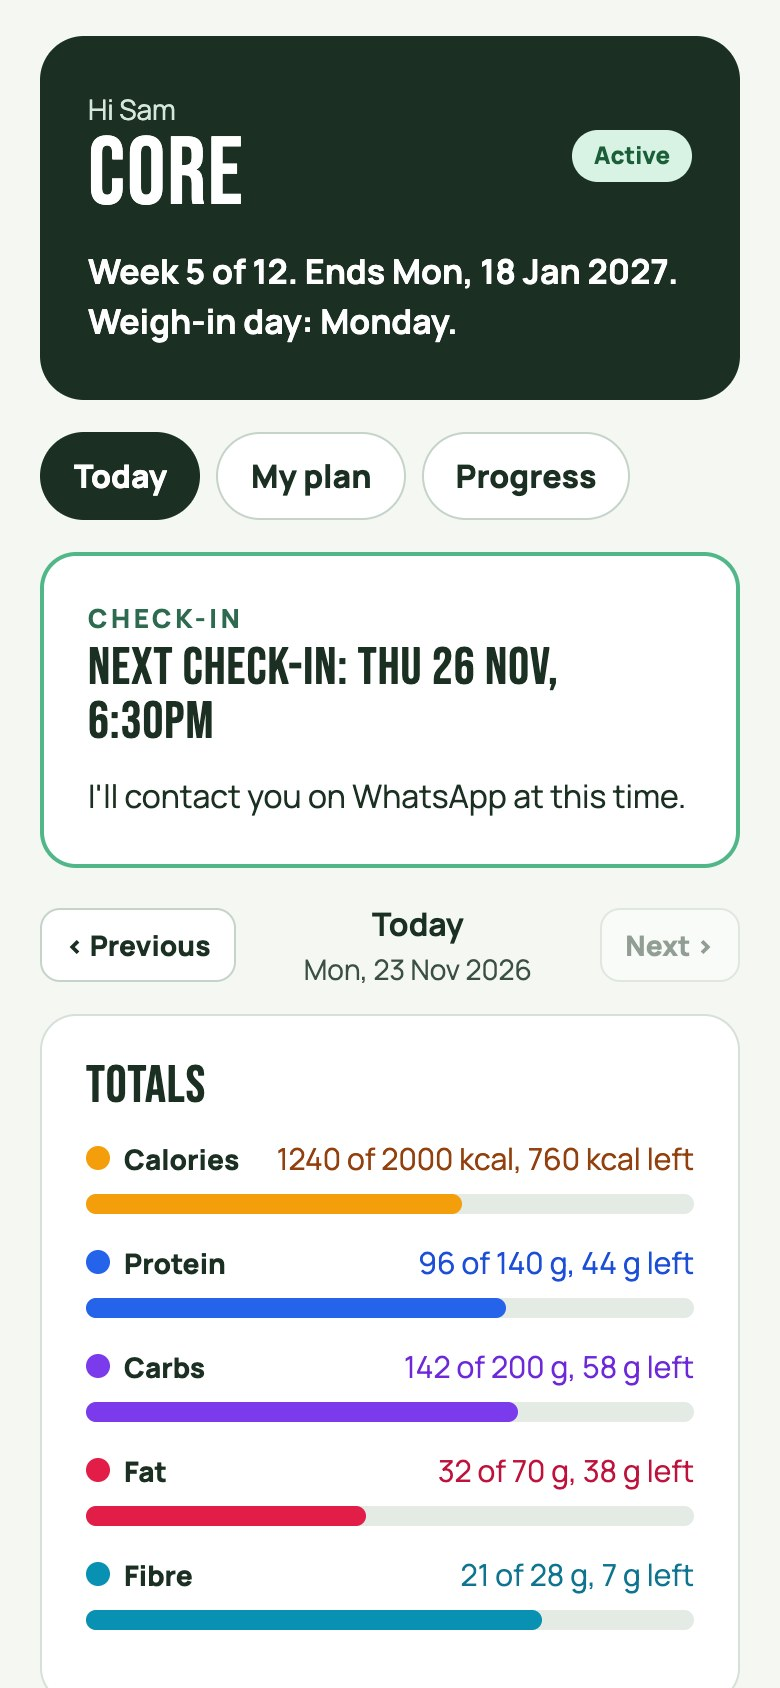
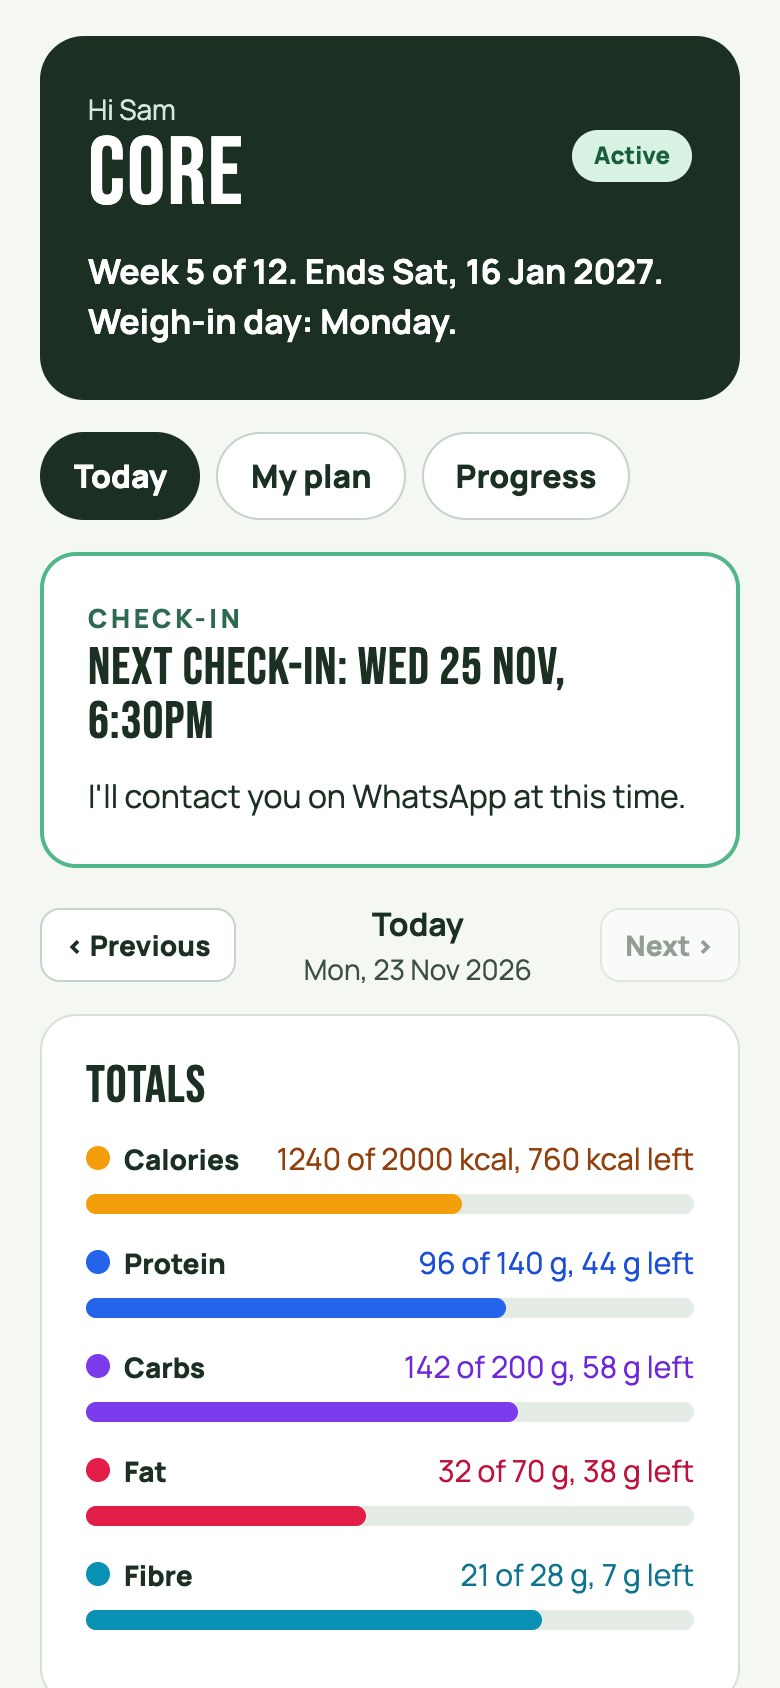
Demo seed: all dates relative to today (Sam started 30 days ago, weigh-ins counted back, check-in two days ahead); storage key bc_demo_v5

Changed region(s): [[0.4923, 0.154, 0.8615, 0.1848], [0.4615, 0.3697, 0.7077, 0.4313]]

diff --git a/coaching-demo.html b/coaching-demo.html
@@ -212,7 +212,7 @@ body.shot #demoBar,body.shot .toast{display:none !important}
    Constants
    ========================================================================== */
 // Bumped with the customer records, so older saved demo data is replaced by the new seeds.
-const DB_KEY = 'bc_demo_v4';
+const DB_KEY = 'bc_demo_v5';
 const UI_KEY = 'bc_demo_ui2';
 const DEMO_KEY_NAME = 'bc_demo_key';
 const DAYS = ['Mon','Tue','Wed','Thu','Fri','Sat','Sun'];
@@ -701,6 +701,16 @@ function weighsOn(start, dayName, kgs) {
   }
   return out.map((date, i) => ({ date, kg: kgs[i] }));
 }
+// Seeded weigh-ins counted back from today: the latest ones on the weigh-in day, oldest first in the result.
+function weighsBack(today, start, dayName, kgs) {
+  const days = [];
+  let d = addDays(today, -1);
+  while (d >= start && days.length < kgs.length) {
+    if (DAYS[dowNum(d) - 1] === dayName) days.push(d);
+    d = addDays(d, -1);
+  }
+  return days.reverse().map((date, i) => ({ date, kg: kgs[kgs.length - days.length + i] }));
+}
 // Seeded set and rep sessions: the last 7 days are 2.5 kg heavier on every other weighted exercise.
 function seedWorkouts(t, schedule) {
   const out = [];
@@ -768,7 +778,7 @@ function seedDb() {
   const sam = mkClient({
     id:'c_sam', name:'Sam Taylor', email:'sam@example.com', tier:'core', status:'active',
     paid:{ date: addDays(t, -30), amount: 299 }, createdAt: addDays(t, -30) + 'T09:00:00.000Z',
-    startDate: addDays(t, -28), healthFlag:false,
+    startDate: addDays(t, -30), healthFlag:false,
     ob: blankOb({
       age:'34', sex:'Male', heightUnit:'cm', heightCm:'182', weight:'84', weightUnit:'kg', weightKg:84, whatsapp:'+61 400 000 001', timezone:'Melbourne',
       goal:'Lose 6 kg and get back to lifting 3 days a week', timeframe:'3 months', goalWhy:'Trip in March and my knee is sick of the extra weight',
@@ -780,16 +790,16 @@ function seedDb() {
       experience:'Some', enjoys:'Lifting, cycling', hates:'Running', injuries:'Left knee gets sore on long walks',
       worked:'Tracking macros in an app for 6 weeks', didnt:'Cutting carbs completely', weighInDay:'Mon', weighInTime:'07:00',
       health:{ heart:'no', chest:'no', other:'no' }, healthClearance:false,
-      agreeTerms:true, agreeNotCoach:true, agreeConsent:true, submittedAt: addDays(t, -28) + 'T18:00:00.000Z'
+      agreeTerms:true, agreeNotCoach:true, agreeConsent:true, submittedAt: addDays(t, -30) + 'T18:00:00.000Z'
     }),
-    weighIns: weighsOn(addDays(t, -28), 'Mon', [83.6, 83.1, 82.7, 82.2]),   // four Monday weigh-ins: a few weeks of Progress
-    checkins: [{ id: 'ci_sam_next', date: addDays(t, 3), time: '18:30', type: 'Check-in', status: 'scheduled' }],
+    weighIns: weighsBack(t, addDays(t, -30), 'Mon', [83.6, 83.1, 82.7, 82.2]),   // the four latest Monday weigh-ins, counting back from today
+    checkins: [{ id: 'ci_sam_next', date: addDays(t, 2), time: '18:30', type: 'Check-in', status: 'scheduled' }],   // two days from today, 6:30pm Melbourne
     workouts: seedWorkouts(t, SAM_SCHEDULE).concat([
       { id: uid(), date: addDays(t, -3), what:'Bike intervals', minutes: 30, notes:'4 x 3 min hard' }
     ]),
     steps: seedSteps(t, 6600),
     targets: { calories:2000, protein:140, carbs:200, fat:70, fibre:28, steps:8000 },
-    plan: { mealDraft: draftFromPlan(samPlan), mealPublished: samPlan, trainDraft: SAM_TRAIN, trainPublished: SAM_TRAIN, publishedAt: addDays(t, -28) + 'T12:00:00.000Z' },
+    plan: { mealDraft: draftFromPlan(samPlan), mealPublished: samPlan, trainDraft: SAM_TRAIN, trainPublished: SAM_TRAIN, publishedAt: addDays(t, -30) + 'T12:00:00.000Z' },
     logs: samLogs,
     notes: 'Keep the step count up. Skip heavy squats this week if the knee flares. Responds well to short voice notes.'
   });

diff --git a/tests/coaching-round3.test.js b/tests/coaching-round3.test.js
@@ -17,7 +17,7 @@ catch (e) { pwError = 'playwright-core not found. See the instructions in docs/C
 const CHROME = process.env.CHROME_PATH || '/Applications/Google Chrome.app/Contents/MacOS/Google Chrome';
 const SKIP = pwError ? { skip: pwError } : {};
 
-// Monday 23 Nov 2026, 9am Melbourne (AEDT, UTC+11). Sam's next check-in is Thu 26 Nov at 6:30pm Melbourne.
+// Monday 23 Nov 2026, 9am Melbourne (AEDT, UTC+11). Sam's next check-in is two days after today (Wed 25 Nov) at 6:30pm Melbourne.
 const MON_9AM_MEL = new Date('2026-11-22T22:00:00Z');
 
 let browser, server, base;
@@ -72,7 +72,7 @@ test('Sam (Core) sees the next check-in on Today, with the time in Melbourne and
   const { ctx, page } = await openPage();
   await setClient(page, 'c_sam');
   assert.equal(await page.locator('#checkinCard').count(), 1, 'the card shows');
-  assert.equal(await toText(page, '#checkinCard h3'), 'Next check-in: Thu 26 Nov, 6:30pm');
+  assert.equal(await toText(page, '#checkinCard h3'), 'Next check-in: Wed 25 Nov, 6:30pm');
   assert.match(await toText(page, '#checkinCard'), /I'll contact you on WhatsApp at this time\./);
   assert.doesNotMatch(await toText(page, '#checkinCard'), /Melbourne time/, 'no second time when the client is in Melbourne');
   noErrors(page);
@@ -84,7 +84,7 @@ test('a client in another zone sees their own time, with the Melbourne time besi
   // Sam is moved to London for this test. 6:30pm in Melbourne is 7:30am in London, the same day.
   await page.evaluate(() => { clientById('c_sam').ob.timezone = 'London'; persist(); });
   await setClient(page, 'c_sam');
-  assert.equal(await toText(page, '#checkinCard h3'), 'Next check-in: Thu 26 Nov, 7:30am');
+  assert.equal(await toText(page, '#checkinCard h3'), 'Next check-in: Wed 25 Nov, 7:30am');
   assert.equal(await toText(page, '#checkinCard .mini'), '(Melbourne time 6:30pm)');
   noErrors(page);
   await ctx.close();
@@ -245,6 +245,23 @@ test('New client on Basic with Maintain: the daily calories equal the calculated
   assert.equal(result.goal, 'maintain');
   assert.equal(result.shown, result.maintenance, 'calories are exactly maintenance');
   assert.match(await page.textContent('.target-val'), /\d/);
+  noErrors(page);
+  await ctx.close();
+});
+
+// The seed is relative to today: move the clock on and Sam's dates move with it.
+test('seeded dates follow today: check-in two days ahead, the latest Monday weigh-ins, and a start 30 days back', SKIP, async () => {
+  // Monday 7 Dec 2026, 9am Melbourne
+  const { ctx, page } = await openPage({ time: new Date('2026-12-06T22:00:00Z') });
+  await setClient(page, 'c_sam');
+  assert.equal(await toText(page, '#checkinCard h3'), 'Next check-in: Wed 9 Dec, 6:30pm', 'two days after today');
+  const seeded = await page.evaluate(() => {
+    const c = clientById('c_sam');
+    return { start: c.startDate, weighIns: c.weighIns.map(w => w.date), checkin: c.checkins[0].date };
+  });
+  assert.equal(seeded.start, '2026-11-07', 'started 30 days before 7 Dec');
+  assert.deepEqual(seeded.weighIns, ['2026-11-09', '2026-11-16', '2026-11-23', '2026-11-30'], 'the four latest Mondays before today');
+  assert.equal(seeded.checkin, '2026-12-09');
   noErrors(page);
   await ctx.close();
 });

diff --git a/tests/coaching-demo.round2.test.js b/tests/coaching-demo.round2.test.js
@@ -254,7 +254,7 @@ test('Logs for seeded clients: Sam has a day for each day since activation and n
   const { ctx, page } = await openPage({ desktop: true, viewport: { width: 1280, height: 900 } });
   await coachOpens(page, 'c_sam');
   await page.click('button[data-act="coachTab"][data-tab="logs"]');
-  // Sam was activated 28 days before today. The Logs tab lists the last 21 days, all from activation.
+  // Sam was activated 30 days before today. The Logs tab lists the last 21 days, all from activation.
   assert.equal(await page.locator('details:not(.baseline)').count(), 21);
   assert.equal(await page.locator('details.baseline').count(), 0, 'no baseline for Sam');
   assert.match(await page.locator('details:not(.baseline)').last().textContent(), /3 Nov 2026/, 'the oldest day listed is 3 Nov, inside the activation window');

diff --git a/docs/COACHING-DEMO.md b/docs/COACHING-DEMO.md
@@ -116,7 +116,7 @@ Steps (`OB_STEPS` in `coaching-demo.html`):
 
 ### Demo sample clients (`seedDb`)
 
-- Sam Taylor: Core, active since 26 Oct (week 5 of 12). Said yes to news. Four Monday weigh-ins, and one upcoming check-in on Thu 26 Nov at 6:30pm (Melbourne time).
+- Sam Taylor: Core, started 30 days ago (week 5 of 12). Said yes to news. Four weigh-ins on his Monday weigh-in day, counting back from today. One upcoming check-in, two days from today at 6:30pm (Melbourne time). All seeded dates are relative to today, so the demo never goes stale.
 - Mia Chen: Essential, awaiting activation.
 - Jordan Reid: The Beast, active.
 - Alex Lee: Basic, active.
